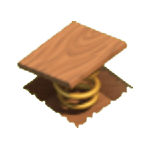
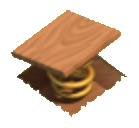
Better cropping of building graphics

Changed region(s): [[0.0576, 0.0625, 0.9209, 0.9062], [0.6906, 0.4062, 0.777, 0.5]]

diff --git a/_sass/_map.scss b/_sass/_map.scss
@@ -58,11 +58,16 @@ $map-width: 800px;
       background: url("../images/grass_building.png");
     }
 
-    // Special case for Army camps (mostly grass)
+    // Special case for army camps as they're mostly grass
     &.army_camp:before {
       background-size: 60%;
-      background-position: 45% 35%;
-      background-repeat: no-repeat;
+      background-position: 42% 46%;
+    }
+
+    // Special case for walls to help with wall effect
+    &.wall:before {
+      background-size: 80%;
+      background-position: center top;
     }
 
     .view-mode &:before {

diff --git a/_sass/_buildings.scss b/_sass/_buildings.scss
@@ -25,7 +25,7 @@
     left: 0;
     right: 0;
     bottom: 0;
-    background-size: auto 100%;
+    background-size: contain;
     background-position: center center;
     background-repeat: no-repeat;
     @include transition(transform .4s);
